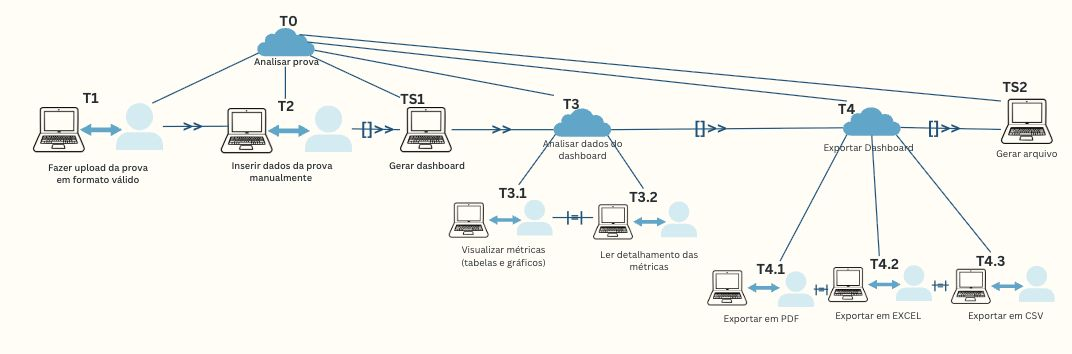
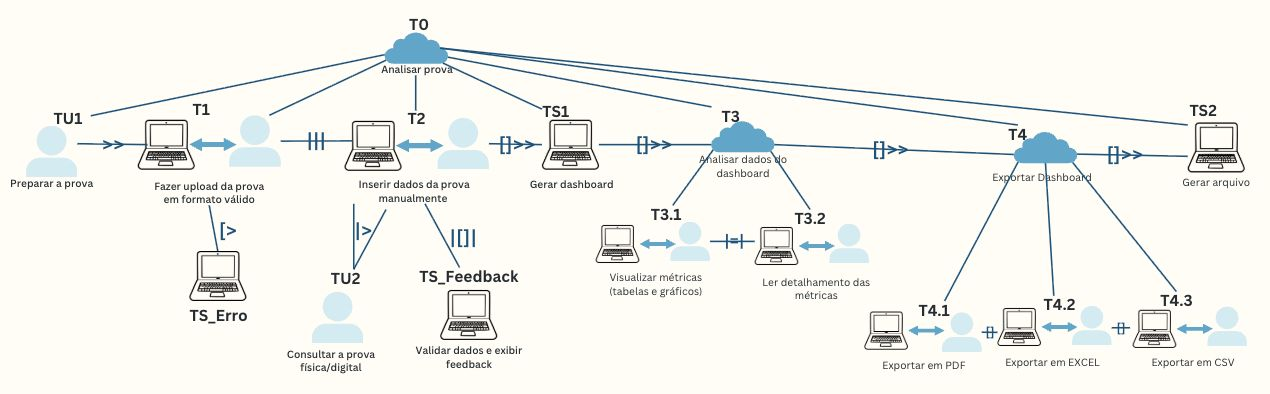
Adição de mais casos no ctt analisar prova para cumprir toda teoria da matéria

diff --git a/docs/05_analise_tarefas.md b/docs/05_analise_tarefas.md
@@ -253,13 +253,17 @@ GOAL 0: Analisar prova.
 
 O modelo de Árvore de Tarefas Concorrentes (CTT) para a tarefa "Analisar prova" (T0) foi decomposto em etapas sequenciais e paralelas, refletindo o fluxo real de trabalho do docente. A estrutura inicia com a tarefa abstrata T0, que engloba todo o processo.
 
-O fluxo começa com a tarefa interativa T1 (Fazer upload da prova em formato válido), onde o docente interage com a interface para enviar o arquivo. Há uma relação de Ativação (>>) entre T1 e T2, pois o upload precisa ser concluído para habilitar a próxima etapa. Em seguida, ocorre a tarefa interativa T2 (Inserir dados da prova manualmente), onde o docente preenche as informações da prova de forma manual, sem que o sistema pré-preencha os campos automaticamente.
+O fluxo começa com a tarefa de usuário TU1 (Preparar a prova), que se relaciona por Ativação (>>) com a tarefa interativa T1 (Fazer upload da prova em formato válido), onde o docente interage com a interface para enviar o arquivo. Em um cenário de erro crítico (como queda de conexão), a tarefa de sistema TS_Erro (Emitir alerta) interrompe completamente o T1, caracterizando uma Desativação ([>).
 
-Após a inserção dos dados, há uma relação de Ativação com Passagem de Informação ([] >>) entre T2 e TS1, pois as informações digitadas pelo docente são enviadas para o sistema. O sistema assume o controle com a tarefa de sistema TS1 (Gerar dashboard), que processa as informações internamente. Uma vez gerado o dashboard, há uma Ativação (>>) para a tarefa abstrata T3 (Analisar dados do dashboard).
+Há uma relação de Concorrência (|||) entre T1 e T2, pois se o sistema permitir upload assíncrono, o docente pode iniciar a inserção de dados enquanto o upload ainda está em processamento, podendo realizá-las em qualquer ordem ou ao mesmo tempo. Em seguida, ocorre a tarefa interativa T2 (Inserir dados da prova manualmente), onde o docente preenche as informações da prova de forma manual, sem que o sistema pré-preencha os campos automaticamente.
 
-A tarefa T3 é composta por duas subtarefas interativas que ocorrem de forma Independente (|=|): T3.1 (Visualizar métricas (tabelas e gráficos)) e T3.2 (Ler detalhamento das métricas). O docente pode realizá-las em qualquer ordem, mas uma não depende da outra para ser iniciada.
+A tarefa T2 tem relação de Suspensão/Retomada (|>) com a tarefa de usuário TU2 (Consultar a prova física/digital). Isso ocorre quando o docente pausa a inserção para buscar uma informação necessária, e depois retoma a tarefa do ponto exato em que parou. Além disso, T2 possui uma relação de Concorrência e Comunicação (|[]|) com a tarefa de sistema TS_Feedback (Validar dados e exibir feedback). Enquanto o docente digita (por exemplo, ao inserir um tempo de prova de 10 horas), o sistema valida em tempo real e devolve um alerta visual imediatamente, caracterizando essa troca de informações simultânea.
 
-Por fim, de forma Opcional, o docente pode realizar a tarefa abstrata T4 (Exportar Dashboard). Há uma relação de Ativação com Passagem de Informação ([] >>) entre T3 e T4, pois as informações do dashboard são passadas para a tela de exportação. Esta etapa é composta por três tarefas independentes: T4.1 (Exportar em PDF), T4.2 (Exportar em EXCEL) e T4.3 (Exportar em CSV). O docente pode realizar as exportações em qualquer ordem mas quando uma delas é iniciada, precisa terminar para que a outra possa ser iniciada. Após a escolha do formato, há uma Ativação com Passagem de Informação ([] >>) para a tarefa de sistema TS2 (Gerar arquivo), que recebe os dados e o formato escolhido para gerar o arquivo final e encerrar o processo.
+Após a inserção dos dados, há uma relação de Ativação com Passagem de Informação ([] >>) entre T2 e TS1, pois as informações digitadas pelo docente são enviadas para o sistema. O sistema assume o controle com a tarefa de sistema TS1 (Gerar dashboard), que processa as informações internamente. Uma vez gerado o dashboard, há uma Ativação com passagem de informação ([]>>) para a tarefa abstrata T3 (Analisar dados do dashboard).
+
+A tarefa T3 é composta por duas subtarefas interativas que ocorrem de forma Independente (|=|): T3.1 (Visualizar métricas - tabelas e gráficos) e T3.2 (Ler detalhamento das métricas). O docente pode realizá-las em qualquer ordem, mas uma não depende da outra para ser iniciada.
+
+Por fim, de forma Opcional, o docente pode realizar a tarefa abstrata T4 (Exportar Dashboard). Há uma relação de Ativação com Passagem de Informação ([] >>) entre T3 e T4, pois as informações do dashboard são passadas para a tela de exportação. Esta etapa é composta por três tarefas que se relacionam por Escolha ([]): T4.1 (Exportar em PDF), T4.2 (Exportar em Excel) e T4.3 (Exportar em CSV). Nessa relação, as opções estão habilitadas simultaneamente, mas uma vez que uma delas é iniciada, as outras são desabilitadas. Após a escolha do formato, há uma Ativação com Passagem de Informação ([] >>) para a tarefa de sistema TS2 (Gerar arquivo), que recebe os dados e o formato escolhido para gerar o arquivo final e encerrar o processo.
 
 
 ### Diagrama
@@ -270,12 +274,18 @@ Por fim, de forma Opcional, o docente pode realizar a tarefa abstrata T4 (Export
 
 | Operador/relação | Significado no diagrama | Exemplo no modelo |
 |---|---|---|
-| >> | Ativação(sequência): A segunda tarefa só pode iniciar após a primeira terminar, sem passagem automática de informação. | T1 >> T2(upload antes da inserção manual de dados da prova) e TS1 >> T3 (dashboard pronto antes de analisar) |
-| []>> | Ativação com passagem de informação: a segunda tarefa só pode iniciar após a primeira terminar, e a informação produzida pela primeira é passada para a segunda. | T2 []>> TS1 (dados inseridos vão para o sistema gerar o dashboard), T3 []>> T4(dados do dashboard vão para a exportação) e T4 []>> TS2 (formato esclhido vai para o sistema gerar o arquivo)|
+| >> | Ativação(sequência): A segunda tarefa só pode iniciar após a primeira terminar, sem passagem automática de informação. | TU1 >> T1 (preparar prova antes do upload). |
+| []>> | Ativação com passagem de informação: a segunda tarefa só pode iniciar após a primeira terminar, e a informação produzida pela primeira é passada para a segunda. | T2 []>> TS1 (dados inseridos vão para o sistema gerar o dashboard), TS1 []>> T3 (dashboard prnto antes de analisar), T3 []>> T4(dados do dashboard vão para a exportação) e T4 []>> TS2 (formato esclhido vai para o sistema gerar o arquivo). |
+| [] | Escolha(tarefas alternativas): As tarefas estão habilitadas simultaneamente, mas uma vez que uma delas é iniciada, as outras são desabilitadas. | T4.1 [] T4.2 [] T4.3 (o docente escolhe exportar em PDF, Excel ou CSV, não sendo possível exportar os 3 literalmente ao mesmo tempo). |
+| ||| | Concorrência: as tarefas podem ser realizadas em qualquer ordem ou ao mesmo tempo. | T1 ||| T2 (upload assíncrono enquanto o docente insere os dados). |
+| |[]| | Concorrência e comunicação: Além de poderem ser realizadas ao mesmo tempo ou em qualquer rodem, as tarefas trocam informações entre si. | T2 |[]| TS_Feedback (o docente digita e o sistema valida e exibe feedback em tempo real). |
 | |=| | Tarefas independentes: As tarefas podem ser realizadas em qualquer ordem, mas quando uma delas é iniciada, precisa terminar para que a outra possa ser iniciada. | T3.1 |=| T3.2 (o docente visualiza as métricas (gráficos/tabelas) e depois lê os detalhes, ou vice-versa, sem que um bloqueie a outra.) e T4.1 |=| T4.2 |=| T4.3 (o docente exporta em um formato, depois em outro,sem simultaneidade. |
+| [> | Desativação: a peimeira tarefa é completamente interrompida pela segunda. | T1 [> TS_Erro (o erro crítico cancela completamente o upload) |
+| |> | Suspensão/Retomada: A primeira tarefa pode ser interrompida pela segunda e é retomada do ponto em que parou assim que a segunda terminar. | T2 |> TU2 e TU2 |> T2 (pausa a inserção para consultar a prova e retoma exatamente de onde parou). |
 | Abstrata (núvem) | Representação de uma composição de tarefas que auxlia a decomposição. Não é uma tarefa executada diretamente | T0(Analisar prova), T3(Analisar dados do dashboard), T4 (Exportar dashboard) |
 | Iterativa (pessoa+computador) | Ocorre o diálogo usuário-sistema (cliques, digitação, leitura de telas) | T1, T2, T3.1, T3.2, T4.1, T4.2, T4.3 |
-| Tarefa do sistema (computador) | O sistema realiza um processamento sem ineragir com o usuário. | TS1 (gerar dashboard) e TS2 (Gerar arquivo) |
+| Tarefa do usuário (pessoa)| Tarefas realizadas (fora do sistema) de cunho físico ou cognitivo | TU1 (preparar prova) e TU2 (consultar a prova física/digital) |
+| Tarefa do sistema (computador) | O sistema realiza um processamento sem ineragir com o usuário. | TS1 (gerar dashboard) e TS2 (Gerar arquivo), TS_Erro (emitir alerta), TS_Feedback (validar dados). |
 
 <!-- Identifique, quando aplicável, tarefas de usuário, sistema, interação e tarefas abstratas. Verifique se concorrência, escolha, habilitação, desabilitação e repetição estão representadas corretamente segundo a notação adotada em aula.-->
 
